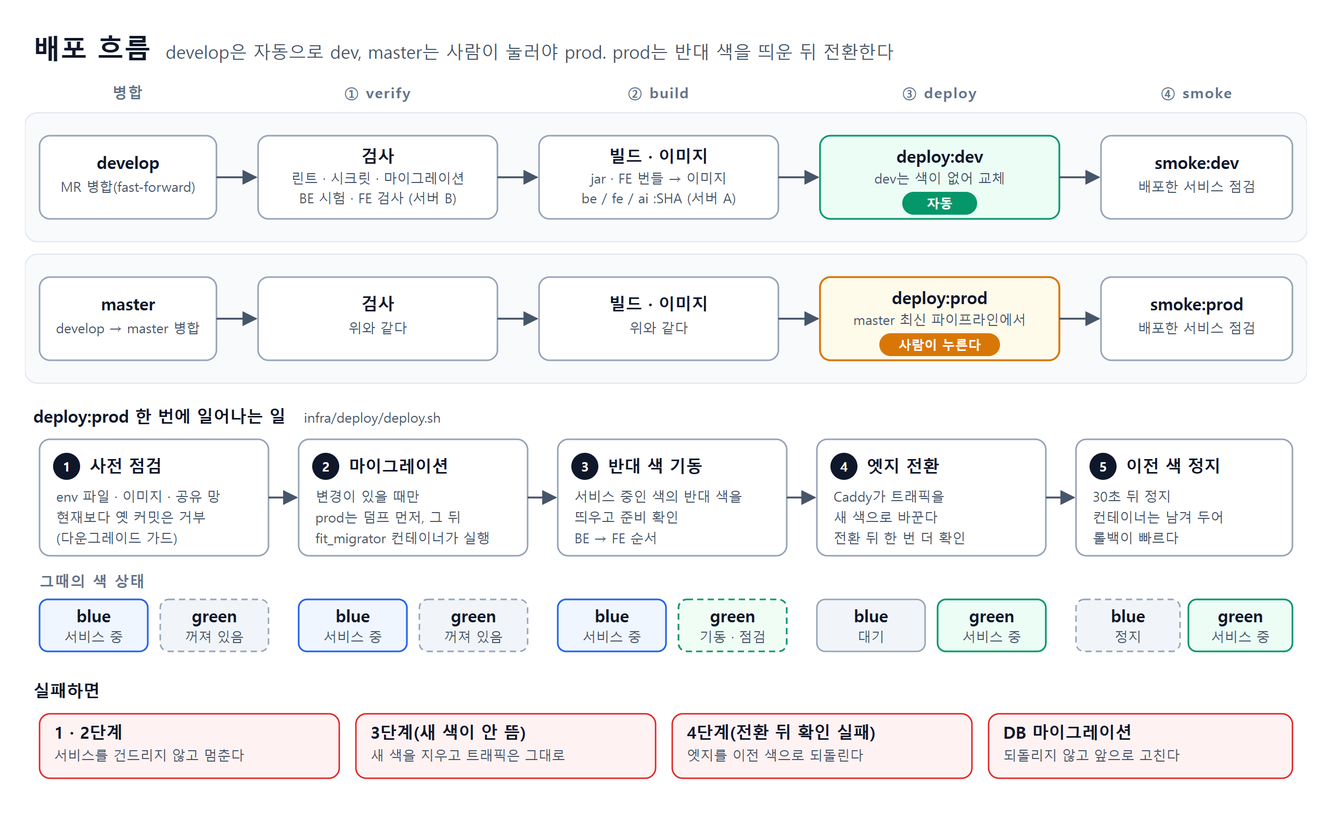
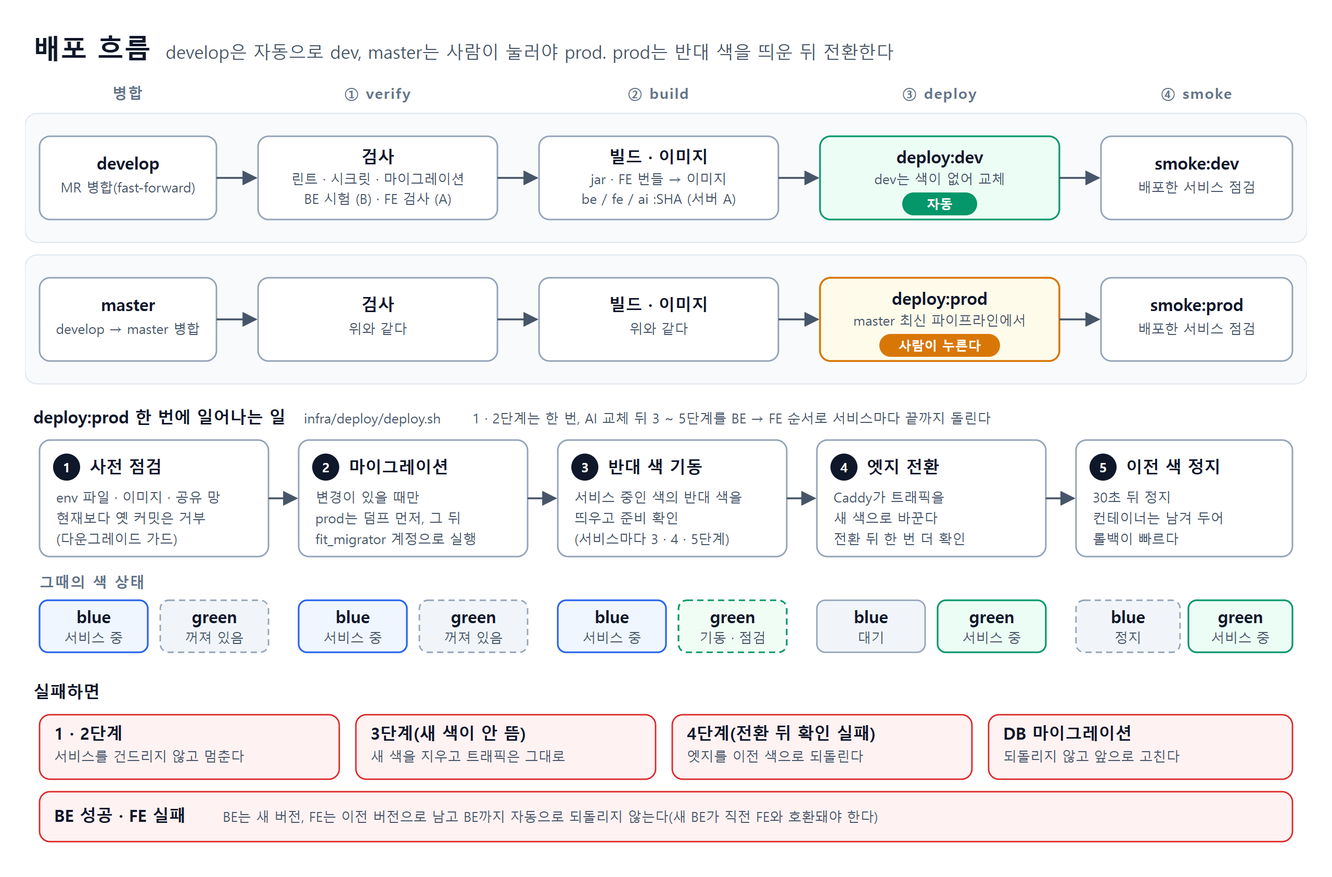
[S15P31A302-238] docs: 구성도와 ERD 그림을 V35와 현재 구성에 맞게 다시 그린다

diff --git a/exec/images/src/erd-5-meetup.html b/exec/images/src/erd-5-meetup.html
@@ -23,4 +23,4 @@ body{font-family:'Malgun Gothic','Apple SD Gothic Neo','Noto Sans KR',sans-serif
 .legend .b{font-size:12px;line-height:17px;padding:0 5px}
 svg{display:block;width:100%;height:auto}
 svg text{font-family:inherit}
-</style></head><body><div id="frame"><div class="head"><b>ERD · 모임</b><span>테이블 4개</span><div class="legend"><span><i class="b pk">PK</i> 기본키</span><span><i class="b fk">FK</i> 외래키(→ 대상 테이블)</span><span><i class="b uk">UK</i> 유일키</span></div></div><div class="cols"><div class="col"><div class="card" style="border-color:#e11d48"><div class="ch" style="background:#fff1f2;border-bottom-color:#e11d48"><b>meetups</b><span>모임</span></div><div class="r"><span class="kb"><i class="b pk">PK</i></span><span class="n">meetup_id</span><span class="ty">bigint</span></div><div class="r"><span class="kb"><i class="b uk">UK</i></span><span class="n">code</span><span class="ty">varchar</span></div><div class="r"><span class="kb"><i class="b fk">FK</i></span><span class="n">host_user_id</span><span class="ref">→ auth_users<em>회원</em></span></div><div class="r"><span class="kb"></span><span class="n">phase</span><span class="ty">text</span></div><div class="r"><span class="kb"></span><span class="n">area_kind</span><span class="ty">text</span></div><div class="r"><span class="kb"></span><span class="n">area_name</span><span class="ty">text</span></div><div class="r"><span class="kb"></span><span class="n">point_lat</span><span class="ty">double</span></div><div class="r"><span class="kb"></span><span class="n">point_lng</span><span class="ty">double</span></div><div class="r"><span class="kb"></span><span class="n">radius_m</span><span class="ty">integer</span></div><div class="r"><span class="kb"></span><span class="n">category</span><span class="ty">text</span></div><div class="r"><span class="kb"></span><span class="n">meet_date</span><span class="ty">date</span></div><div class="r"><span class="kb"></span><span class="n">meet_time</span><span class="ty">time</span></div><div class="r"><span class="kb"></span><span class="n">headcount</span><span class="ty">integer</span></div><div class="r"><span class="kb"></span><span class="n">description</span><span class="ty">varchar</span></div><div class="r"><span class="kb"></span><span class="n">parsed_conditions</span><span class="ty">jsonb</span></div><div class="r"><span class="kb"></span><span class="n">poll_state</span><span class="ty">text</span></div><div class="r"><span class="kb"></span><span class="n">poll_anonymous</span><span class="ty">boolean</span></div><div class="r"><span class="kb"></span><span class="n">poll_place_ids</span><span class="ty">bigint[]</span></div><div class="r"><span class="kb"></span><span class="n">poll_tie_votes</span><span class="ty">integer</span></div><div class="r"><span class="kb"></span><span class="n">decided_place_id</span><span class="ty">bigint</span></div><div class="r"><span class="kb"></span><span class="n">decided_how</span><span class="ty">text</span></div><div class="r"><span class="kb"></span><span class="n">decided_at</span><span class="ty">timestamptz</span></div><div class="r"><span class="kb"></span><span class="n">expires_at</span><span class="ty">timestamptz</span></div><div class="r"><span class="kb"></span><span class="n">info_updated_at</span><span class="ty">timestamptz</span></div></div><div class="card" style="border-color:#e11d48"><div class="ch" style="background:#fff1f2;border-bottom-color:#e11d48"><b>meetup_profile_sessions</b><span>참가자 세션</span></div><div class="r"><span class="kb"><i class="b pk">PK</i></span><span class="n">session_id</span><span class="ty">bigint</span></div><div class="r"><span class="kb"><i class="b fk">FK</i></span><span class="n">profile_id</span><span class="ref">→ meetup_profiles</span></div><div class="r"><span class="kb"><i class="b uk">UK</i></span><span class="n">token_hash</span><span class="ty">bytea</span></div></div></div><div class="col"><div class="card" style="border-color:#e11d48"><div class="ch" style="background:#fff1f2;border-bottom-color:#e11d48"><b>meetup_profiles</b><span>참가자 프로필</span></div><div class="r"><span class="kb"><i class="b pk">PK</i></span><span class="n">profile_id</span><span class="ty">bigint</span></div><div class="r"><span class="kb"><i class="b fk">FK</i></span><span class="n">meetup_id</span><span class="ref">→ meetups</span></div><div class="r"><span class="kb"><i class="b uk">UK</i></span><span class="n">name</span><span class="ty">varchar</span></div><div class="r"><span class="kb"><i class="b uk">UK</i></span><span class="n">color</span><span class="ty">integer</span></div><div class="r"><span class="kb"><i class="b fk">FK</i><i class="b uk">UK</i></span><span class="n">user_id</span><span class="ref">→ auth_users<em>회원</em></span></div><div class="r"><span class="kb"></span><span class="n">mood</span><span class="ty">text</span></div><div class="r"><span class="kb"></span><span class="n">like_foods</span><span class="ty">text[]</span></div><div class="r"><span class="kb"></span><span class="n">avoid_foods</span><span class="ty">text[]</span></div><div class="r"><span class="kb"></span><span class="n">no_spicy</span><span class="ty">boolean</span></div><div class="r"><span class="kb"></span><span class="n">price_cap</span><span class="ty">integer</span></div><div class="r"><span class="kb"></span><span class="n">want_menu</span><span class="ty">varchar</span></div><div class="r"><span class="kb"></span><span class="n">taste_updated_at</span><span class="ty">timestamptz</span></div><div class="r"><span class="kb"></span><span class="n">vote_place_id</span><span class="ty">bigint</span></div><div class="r"><span class="kb"><i class="b fk">FK</i></span><span class="n">vote_session_id</span><span class="ref">→ meetup_profile_sessions</span></div></div><div class="card" style="border-color:#e11d48"><div class="ch" style="background:#fff1f2;border-bottom-color:#e11d48"><b>meetup_calculations</b><span>추천 계산 기록</span></div><div class="r"><span class="kb"><i class="b pk">PK</i></span><span class="n">calc_id</span><span class="ty">bigint</span></div><div class="r"><span class="kb"><i class="b fk">FK</i></span><span class="n">meetup_id</span><span class="ref">→ meetups</span></div><div class="r"><span class="kb"></span><span class="n">state</span><span class="ty">text</span></div><div class="r"><span class="kb"></span><span class="n">started_at</span><span class="ty">timestamptz</span></div><div class="r"><span class="kb"></span><span class="n">finished_at</span><span class="ty">timestamptz</span></div><div class="r"><span class="kb"></span><span class="n">taste_count</span><span class="ty">integer</span></div><div class="r"><span class="kb"></span><span class="n">profile_ids</span><span class="ty">bigint[]</span></div><div class="r"><span class="kb"></span><span class="n">result</span><span class="ty">jsonb</span></div><div class="r"><span class="kb"></span><span class="n">applied</span><span class="ty">jsonb</span></div><div class="r"><span class="kb"></span><span class="n">empty_reason</span><span class="ty">jsonb</span></div></div></div></div></div></body></html>
+</style></head><body><div id="frame"><div class="head"><b>ERD · 모임</b><span>테이블 4개</span><div class="legend"><span><i class="b pk">PK</i> 기본키</span><span><i class="b fk">FK</i> 외래키(→ 대상 테이블)</span><span><i class="b uk">UK</i> 유일키</span></div></div><div class="cols"><div class="col"><div class="card" style="border-color:#e11d48"><div class="ch" style="background:#fff1f2;border-bottom-color:#e11d48"><b>meetups</b><span>모임</span></div><div class="r"><span class="kb"><i class="b pk">PK</i></span><span class="n">meetup_id</span><span class="ty">bigint</span></div><div class="r"><span class="kb"><i class="b uk">UK</i></span><span class="n">code</span><span class="ty">varchar</span></div><div class="r"><span class="kb"><i class="b fk">FK</i></span><span class="n">host_user_id</span><span class="ref">→ auth_users<em>회원</em></span></div><div class="r"><span class="kb"></span><span class="n">phase</span><span class="ty">text</span></div><div class="r"><span class="kb"></span><span class="n">area_kind</span><span class="ty">text</span></div><div class="r"><span class="kb"></span><span class="n">area_name</span><span class="ty">text</span></div><div class="r"><span class="kb"></span><span class="n">point_lat</span><span class="ty">double</span></div><div class="r"><span class="kb"></span><span class="n">point_lng</span><span class="ty">double</span></div><div class="r"><span class="kb"></span><span class="n">radius_m</span><span class="ty">integer</span></div><div class="r"><span class="kb"></span><span class="n">category</span><span class="ty">text</span></div><div class="r"><span class="kb"></span><span class="n">meet_date</span><span class="ty">date</span></div><div class="r"><span class="kb"></span><span class="n">meet_time</span><span class="ty">time</span></div><div class="r"><span class="kb"></span><span class="n">headcount</span><span class="ty">integer</span></div><div class="r"><span class="kb"></span><span class="n">description</span><span class="ty">varchar</span></div><div class="r"><span class="kb"></span><span class="n">parsed_conditions</span><span class="ty">jsonb</span></div><div class="r"><span class="kb"></span><span class="n">poll_state</span><span class="ty">text</span></div><div class="r"><span class="kb"></span><span class="n">poll_anonymous</span><span class="ty">boolean</span></div><div class="r"><span class="kb"></span><span class="n">poll_place_ids</span><span class="ty">bigint[]</span></div><div class="r"><span class="kb"></span><span class="n">poll_tie_votes</span><span class="ty">integer</span></div><div class="r"><span class="kb"></span><span class="n">decided_place_id</span><span class="ty">bigint</span></div><div class="r"><span class="kb"></span><span class="n">decided_how</span><span class="ty">text</span></div><div class="r"><span class="kb"></span><span class="n">decided_at</span><span class="ty">timestamptz</span></div><div class="r"><span class="kb"></span><span class="n">info_updated_at</span><span class="ty">timestamptz</span></div></div><div class="card" style="border-color:#e11d48"><div class="ch" style="background:#fff1f2;border-bottom-color:#e11d48"><b>meetup_profile_sessions</b><span>참가자 세션</span></div><div class="r"><span class="kb"><i class="b pk">PK</i></span><span class="n">session_id</span><span class="ty">bigint</span></div><div class="r"><span class="kb"><i class="b fk">FK</i></span><span class="n">profile_id</span><span class="ref">→ meetup_profiles</span></div><div class="r"><span class="kb"><i class="b uk">UK</i></span><span class="n">token_hash</span><span class="ty">bytea</span></div></div></div><div class="col"><div class="card" style="border-color:#e11d48"><div class="ch" style="background:#fff1f2;border-bottom-color:#e11d48"><b>meetup_profiles</b><span>참가자 프로필</span></div><div class="r"><span class="kb"><i class="b pk">PK</i></span><span class="n">profile_id</span><span class="ty">bigint</span></div><div class="r"><span class="kb"><i class="b fk">FK</i></span><span class="n">meetup_id</span><span class="ref">→ meetups</span></div><div class="r"><span class="kb"><i class="b uk">UK</i></span><span class="n">name</span><span class="ty">varchar</span></div><div class="r"><span class="kb"><i class="b uk">UK</i></span><span class="n">color</span><span class="ty">integer</span></div><div class="r"><span class="kb"><i class="b fk">FK</i><i class="b uk">UK</i></span><span class="n">user_id</span><span class="ref">→ auth_users<em>회원</em></span></div><div class="r"><span class="kb"></span><span class="n">mood</span><span class="ty">text</span></div><div class="r"><span class="kb"></span><span class="n">like_foods</span><span class="ty">text[]</span></div><div class="r"><span class="kb"></span><span class="n">avoid_foods</span><span class="ty">text[]</span></div><div class="r"><span class="kb"></span><span class="n">no_spicy</span><span class="ty">boolean</span></div><div class="r"><span class="kb"></span><span class="n">price_cap</span><span class="ty">integer</span></div><div class="r"><span class="kb"></span><span class="n">want_menu</span><span class="ty">varchar</span></div><div class="r"><span class="kb"></span><span class="n">taste_updated_at</span><span class="ty">timestamptz</span></div><div class="r"><span class="kb"></span><span class="n">vote_place_id</span><span class="ty">bigint</span></div><div class="r"><span class="kb"><i class="b fk">FK</i></span><span class="n">vote_session_id</span><span class="ref">→ meetup_profile_sessions</span></div></div><div class="card" style="border-color:#e11d48"><div class="ch" style="background:#fff1f2;border-bottom-color:#e11d48"><b>meetup_calculations</b><span>추천 계산 기록</span></div><div class="r"><span class="kb"><i class="b pk">PK</i></span><span class="n">calc_id</span><span class="ty">bigint</span></div><div class="r"><span class="kb"><i class="b fk">FK</i></span><span class="n">meetup_id</span><span class="ref">→ meetups</span></div><div class="r"><span class="kb"></span><span class="n">state</span><span class="ty">text</span></div><div class="r"><span class="kb"></span><span class="n">started_at</span><span class="ty">timestamptz</span></div><div class="r"><span class="kb"></span><span class="n">finished_at</span><span class="ty">timestamptz</span></div><div class="r"><span class="kb"></span><span class="n">taste_count</span><span class="ty">integer</span></div><div class="r"><span class="kb"></span><span class="n">profile_ids</span><span class="ty">bigint[]</span></div><div class="r"><span class="kb"></span><span class="n">result</span><span class="ty">jsonb</span></div><div class="r"><span class="kb"></span><span class="n">applied</span><span class="ty">jsonb</span></div><div class="r"><span class="kb"></span><span class="n">empty_reason</span><span class="ty">jsonb</span></div></div></div></div></div></body></html>

diff --git a/exec/images/src/erd-3-review.html b/exec/images/src/erd-3-review.html
@@ -23,4 +23,4 @@ body{font-family:'Malgun Gothic','Apple SD Gothic Neo','Noto Sans KR',sans-serif
 .legend .b{font-size:12px;line-height:17px;padding:0 5px}
 svg{display:block;width:100%;height:auto}
 svg text{font-family:inherit}
-</style></head><body><div id="frame"><div class="head"><b>ERD · 리뷰</b><span>테이블 6개</span><div class="legend"><span><i class="b pk">PK</i> 기본키</span><span><i class="b fk">FK</i> 외래키(→ 대상 테이블)</span><span><i class="b uk">UK</i> 유일키</span></div></div><div class="cols"><div class="col"><div class="card" style="border-color:#d97706"><div class="ch" style="background:#fffbeb;border-bottom-color:#d97706"><b>reviews</b><span>리뷰</span></div><div class="r"><span class="kb"><i class="b pk">PK</i></span><span class="n">review_id</span><span class="ty">bigint</span></div><div class="r"><span class="kb"><i class="b fk">FK</i></span><span class="n">place_id</span><span class="ref">→ places<em>장소</em></span></div><div class="r"><span class="kb"><i class="b fk">FK</i></span><span class="n">user_id</span><span class="ref">→ auth_users<em>회원</em></span></div><div class="r"><span class="kb"></span><span class="n">visit_date</span><span class="ty">date</span></div><div class="r"><span class="kb"></span><span class="n">description</span><span class="ty">varchar</span></div><div class="r"><span class="kb"></span><span class="n">revisit_intent</span><span class="ty">boolean</span></div><div class="r"><span class="kb"></span><span class="n">spent_per_person</span><span class="ty">integer</span></div><div class="r"><span class="kb"></span><span class="n">created_at</span><span class="ty">timestamptz</span></div><div class="r"><span class="kb"></span><span class="n">updated_at</span><span class="ty">timestamptz</span></div><div class="r"><span class="kb"></span><span class="n">deleted_at</span><span class="ty">timestamptz</span></div></div><div class="card" style="border-color:#d97706"><div class="ch" style="background:#fffbeb;border-bottom-color:#d97706"><b>review_reason_tags</b><span>리뷰에 붙은 태그</span></div><div class="r"><span class="kb"><i class="b pk">PK</i><i class="b fk">FK</i></span><span class="n">review_id</span><span class="ref">→ reviews</span></div><div class="r"><span class="kb"><i class="b pk">PK</i><i class="b fk">FK</i></span><span class="n">code</span><span class="ref">→ reason_tags</span></div></div></div><div class="col"><div class="card" style="border-color:#d97706"><div class="ch" style="background:#fffbeb;border-bottom-color:#d97706"><b>review_reports</b><span>리뷰 신고</span></div><div class="r"><span class="kb"><i class="b pk">PK</i></span><span class="n">review_report_id</span><span class="ty">bigint</span></div><div class="r"><span class="kb"><i class="b fk">FK</i></span><span class="n">review_id</span><span class="ref">→ reviews</span></div><div class="r"><span class="kb"><i class="b fk">FK</i><i class="b uk">UK</i></span><span class="n">reporter_id</span><span class="ref">→ auth_users<em>회원</em></span></div><div class="r"><span class="kb"></span><span class="n">reason</span><span class="ty">text</span></div><div class="r"><span class="kb"></span><span class="n">detail</span><span class="ty">varchar</span></div><div class="r"><span class="kb"></span><span class="n">created_at</span><span class="ty">timestamptz</span></div></div><div class="card" style="border-color:#d97706"><div class="ch" style="background:#fffbeb;border-bottom-color:#d97706"><b>review_photos</b><span>리뷰 사진</span></div><div class="r"><span class="kb"><i class="b pk">PK</i><i class="b fk">FK</i></span><span class="n">review_id</span><span class="ref">→ reviews</span></div><div class="r"><span class="kb"><i class="b pk">PK</i></span><span class="n">sort_order</span><span class="ty">integer</span></div><div class="r"><span class="kb"><i class="b uk">UK</i></span><span class="n">photo_id</span><span class="ty">uuid</span></div></div></div><div class="col"><div class="card" style="border-color:#d97706"><div class="ch" style="background:#fffbeb;border-bottom-color:#d97706"><b>reason_tags</b><span>이유 태그 코드</span></div><div class="r"><span class="kb"><i class="b pk">PK</i></span><span class="n">code</span><span class="ty">text</span></div><div class="r"><span class="kb"><i class="b fk">FK</i></span><span class="n">feature_code</span><span class="ref">→ feature_codes<em>장소</em></span></div><div class="r"><span class="kb"></span><span class="n">sentiment</span><span class="ty">text</span></div><div class="r"><span class="kb"></span><span class="n">label</span><span class="ty">varchar</span></div><div class="r"><span class="kb"></span><span class="n">display_group</span><span class="ty">varchar</span></div><div class="r"><span class="kb"></span><span class="n">sort_order</span><span class="ty">integer</span></div></div><div class="card" style="border-color:#d97706"><div class="ch" style="background:#fffbeb;border-bottom-color:#d97706"><b>reason_tag_categories</b><span>업종별 태그</span></div><div class="r"><span class="kb"><i class="b pk">PK</i></span><span class="n">category</span><span class="ty">text</span></div><div class="r"><span class="kb"><i class="b pk">PK</i><i class="b fk">FK</i></span><span class="n">code</span><span class="ref">→ reason_tags</span></div><div class="r"><span class="kb"></span><span class="n">label</span><span class="ty">varchar</span></div></div></div></div></div></body></html>
+</style></head><body><div id="frame"><div class="head"><b>ERD · 리뷰</b><span>테이블 7개</span><div class="legend"><span><i class="b pk">PK</i> 기본키</span><span><i class="b fk">FK</i> 외래키(→ 대상 테이블)</span><span><i class="b uk">UK</i> 유일키</span></div></div><div class="cols"><div class="col"><div class="card" style="border-color:#d97706"><div class="ch" style="background:#fffbeb;border-bottom-color:#d97706"><b>reviews</b><span>리뷰</span></div><div class="r"><span class="kb"><i class="b pk">PK</i></span><span class="n">review_id</span><span class="ty">bigint</span></div><div class="r"><span class="kb"><i class="b fk">FK</i></span><span class="n">place_id</span><span class="ref">→ places<em>장소</em></span></div><div class="r"><span class="kb"><i class="b fk">FK</i></span><span class="n">user_id</span><span class="ref">→ auth_users<em>회원</em></span></div><div class="r"><span class="kb"></span><span class="n">visit_date</span><span class="ty">date</span></div><div class="r"><span class="kb"></span><span class="n">description</span><span class="ty">varchar</span></div><div class="r"><span class="kb"></span><span class="n">revisit_intent</span><span class="ty">boolean</span></div><div class="r"><span class="kb"></span><span class="n">spent_per_person</span><span class="ty">integer</span></div><div class="r"><span class="kb"></span><span class="n">created_at</span><span class="ty">timestamptz</span></div><div class="r"><span class="kb"></span><span class="n">updated_at</span><span class="ty">timestamptz</span></div><div class="r"><span class="kb"></span><span class="n">deleted_at</span><span class="ty">timestamptz</span></div></div><div class="card" style="border-color:#d97706"><div class="ch" style="background:#fffbeb;border-bottom-color:#d97706"><b>review_reason_tags</b><span>리뷰에 붙은 태그</span></div><div class="r"><span class="kb"><i class="b pk">PK</i><i class="b fk">FK</i></span><span class="n">review_id</span><span class="ref">→ reviews</span></div><div class="r"><span class="kb"><i class="b pk">PK</i><i class="b fk">FK</i></span><span class="n">code</span><span class="ref">→ reason_tags</span></div></div></div><div class="col"><div class="card" style="border-color:#d97706"><div class="ch" style="background:#fffbeb;border-bottom-color:#d97706"><b>review_reports</b><span>리뷰 신고</span></div><div class="r"><span class="kb"><i class="b pk">PK</i></span><span class="n">review_report_id</span><span class="ty">bigint</span></div><div class="r"><span class="kb"><i class="b fk">FK</i></span><span class="n">review_id</span><span class="ref">→ reviews</span></div><div class="r"><span class="kb"><i class="b fk">FK</i><i class="b uk">UK</i></span><span class="n">reporter_id</span><span class="ref">→ auth_users<em>회원</em></span></div><div class="r"><span class="kb"></span><span class="n">reason</span><span class="ty">text</span></div><div class="r"><span class="kb"></span><span class="n">detail</span><span class="ty">varchar</span></div><div class="r"><span class="kb"></span><span class="n">created_at</span><span class="ty">timestamptz</span></div></div><div class="card" style="border-color:#d97706"><div class="ch" style="background:#fffbeb;border-bottom-color:#d97706"><b>review_photos</b><span>리뷰 사진</span></div><div class="r"><span class="kb"><i class="b pk">PK</i><i class="b fk">FK</i></span><span class="n">review_id</span><span class="ref">→ reviews</span></div><div class="r"><span class="kb"><i class="b pk">PK</i></span><span class="n">sort_order</span><span class="ty">integer</span></div><div class="r"><span class="kb"><i class="b uk">UK</i></span><span class="n">photo_id</span><span class="ty">uuid</span></div></div><div class="card" style="border-color:#d97706"><div class="ch" style="background:#fffbeb;border-bottom-color:#d97706"><b>review_extractions</b><span>리뷰 본문 추출 결과</span></div><div class="r"><span class="kb"><i class="b pk">PK</i><i class="b fk">FK</i></span><span class="n">review_id</span><span class="ref">→ reviews</span></div><div class="r"><span class="kb"></span><span class="n">items</span><span class="ty">jsonb</span></div><div class="r"><span class="kb"></span><span class="n">model</span><span class="ty">text</span></div><div class="r"><span class="kb"></span><span class="n">prompt_version</span><span class="ty">integer</span></div><div class="r"><span class="kb"></span><span class="n">extracted_at</span><span class="ty">timestamptz</span></div></div></div><div class="col"><div class="card" style="border-color:#d97706"><div class="ch" style="background:#fffbeb;border-bottom-color:#d97706"><b>reason_tags</b><span>이유 태그 코드</span></div><div class="r"><span class="kb"><i class="b pk">PK</i></span><span class="n">code</span><span class="ty">text</span></div><div class="r"><span class="kb"><i class="b fk">FK</i></span><span class="n">feature_code</span><span class="ref">→ feature_codes<em>장소</em></span></div><div class="r"><span class="kb"></span><span class="n">sentiment</span><span class="ty">text</span></div><div class="r"><span class="kb"></span><span class="n">label</span><span class="ty">varchar</span></div><div class="r"><span class="kb"></span><span class="n">display_group</span><span class="ty">varchar</span></div><div class="r"><span class="kb"></span><span class="n">sort_order</span><span class="ty">integer</span></div></div><div class="card" style="border-color:#d97706"><div class="ch" style="background:#fffbeb;border-bottom-color:#d97706"><b>reason_tag_categories</b><span>업종별 태그</span></div><div class="r"><span class="kb"><i class="b pk">PK</i></span><span class="n">category</span><span class="ty">text</span></div><div class="r"><span class="kb"><i class="b pk">PK</i><i class="b fk">FK</i></span><span class="n">code</span><span class="ref">→ reason_tags</span></div><div class="r"><span class="kb"></span><span class="n">label</span><span class="ty">varchar</span></div></div></div></div></div></body></html>

diff --git a/exec/images/src/erd-0-overview.html b/exec/images/src/erd-0-overview.html
@@ -23,4 +23,4 @@ body{font-family:'Malgun Gothic','Apple SD Gothic Neo','Noto Sans KR',sans-serif
 .legend .b{font-size:12px;line-height:17px;padding:0 5px}
 svg{display:block;width:100%;height:auto}
 svg text{font-family:inherit}
-</style></head><body><div id="frame"><div class="head"><b>ERD 한눈에</b><span>테이블 32개 · FK 31개. 회원 · 인증과 장소가 중심이고 나머지가 두 영역을 참조한다</span></div><svg viewBox="0 0 1232 660" role="img" aria-label="회원 인증 영역과 장소 영역이 중심이고 리뷰, 북마크 검색, 모임 영역이 두 영역을 참조한다."><defs><marker id="a" viewBox="0 0 10 10" refX="9" refY="5" markerWidth="9" markerHeight="9" orient="auto"><path d="M0,0 L10,5 L0,10 z" fill="#475569"/></marker><marker id="g" viewBox="0 0 10 10" refX="9" refY="5" markerWidth="9" markerHeight="9" orient="auto"><path d="M0,0 L10,5 L0,10 z" fill="#94a3b8"/></marker></defs><rect x="40" y="250" width="300" height="130" rx="12" fill="#eff6ff" stroke="#2563eb" stroke-width="2.4"/><text x="58" y="290" font-size="21" font-weight="800" fill="#0f172a">회원 · 인증</text><text x="58" y="316" font-size="15" fill="#475569">테이블 6개</text><text x="58" y="348" font-size="13.5" fill="#64748b" font-family="Consolas,monospace">auth_users · user_preferences</text><rect x="892" y="250" width="300" height="130" rx="12" fill="#ecfdf5" stroke="#059669" stroke-width="2.4"/><text x="910" y="290" font-size="21" font-weight="800" fill="#0f172a">장소</text><text x="910" y="316" font-size="15" fill="#475569">테이블 11개</text><text x="910" y="348" font-size="13.5" fill="#64748b" font-family="Consolas,monospace">places · place_* 9개 · feature_codes</text><rect x="466" y="40" width="300" height="130" rx="12" fill="#fffbeb" stroke="#d97706" stroke-width="2.4"/><text x="484" y="80" font-size="21" font-weight="800" fill="#0f172a">리뷰</text><text x="484" y="106" font-size="15" fill="#475569">테이블 6개</text><text x="484" y="138" font-size="13.5" fill="#64748b" font-family="Consolas,monospace">reviews · review_reason_tags</text><rect x="466" y="470" width="300" height="130" rx="12" fill="#f5f3ff" stroke="#7c3aed" stroke-width="2.4"/><text x="484" y="510" font-size="21" font-weight="800" fill="#0f172a">북마크 · 검색 · 기타</text><text x="484" y="536" font-size="15" fill="#475569">테이블 5개</text><text x="484" y="568" font-size="13.5" fill="#64748b" font-family="Consolas,monospace">bookmarks · search_threads</text><rect x="40" y="470" width="300" height="130" rx="12" fill="#fff1f2" stroke="#e11d48" stroke-width="2.4"/><text x="58" y="510" font-size="21" font-weight="800" fill="#0f172a">모임</text><text x="58" y="536" font-size="15" fill="#475569">테이블 4개</text><text x="58" y="568" font-size="13.5" fill="#64748b" font-family="Consolas,monospace">meetups · meetup_profiles</text><path d="M466,150 L340,275" fill="none" stroke="#475569" stroke-width="2.4" marker-end="url(#a)"/><text x="403" y="217" text-anchor="middle" font-size="14" font-weight="700" fill="#1e293b" paint-order="stroke" stroke="#fff" stroke-width="6" stroke-linejoin="round">FK 2개</text><path d="M766,150 L892,275" fill="none" stroke="#475569" stroke-width="2.4" marker-end="url(#a)"/><text x="829" y="217" text-anchor="middle" font-size="14" font-weight="700" fill="#1e293b" paint-order="stroke" stroke="#fff" stroke-width="6" stroke-linejoin="round">FK 2개</text><path d="M466,520 L340,360" fill="none" stroke="#475569" stroke-width="2.4" marker-end="url(#a)"/><text x="403" y="445" text-anchor="middle" font-size="14" font-weight="700" fill="#1e293b" paint-order="stroke" stroke="#fff" stroke-width="6" stroke-linejoin="round">FK 2개</text><path d="M766,520 L892,360" fill="none" stroke="#475569" stroke-width="2.4" marker-end="url(#a)"/><text x="829" y="445" text-anchor="middle" font-size="14" font-weight="700" fill="#1e293b" paint-order="stroke" stroke="#fff" stroke-width="6" stroke-linejoin="round">FK 1개</text><path d="M190,470 L190,380" fill="none" stroke="#475569" stroke-width="2.4" marker-end="url(#a)"/><text x="190" y="430" text-anchor="middle" font-size="14" font-weight="700" fill="#1e293b" paint-order="stroke" stroke="#fff" stroke-width="6" stroke-linejoin="round">FK 2개</text><path d="M340,600 V632 H1042 V382" fill="none" stroke="#94a3b8" stroke-width="2.4" stroke-dasharray="8 6" marker-end="url(#g)"/><text x="700" y="650" text-anchor="middle" font-size="14" font-weight="700" fill="#475569" paint-order="stroke" stroke="#fff" stroke-width="6">모임 → 장소: FK 없이 장소 id만 저장</text></svg><div style="margin:8px 0 0 8px;font-size:14px;color:#475569">화살표는 FK가 가리키는 방향이다. 영역 안의 FK 22개는 영역별 그림에 나온다. 점선은 FK 제약이 없는 연결이다.</div></div></body></html>
+</style></head><body><div id="frame"><div class="head"><b>ERD 한눈에</b><span>테이블 33개 · FK 32개(V35 기준). 회원 · 인증과 장소가 중심이고 나머지가 두 영역을 참조한다</span></div><svg viewBox="0 0 1232 660" role="img" aria-label="회원 인증 영역과 장소 영역이 중심이고 리뷰, 북마크 검색, 모임 영역이 두 영역을 참조한다."><defs><marker id="a" viewBox="0 0 10 10" refX="9" refY="5" markerWidth="9" markerHeight="9" orient="auto"><path d="M0,0 L10,5 L0,10 z" fill="#475569"/></marker><marker id="g" viewBox="0 0 10 10" refX="9" refY="5" markerWidth="9" markerHeight="9" orient="auto"><path d="M0,0 L10,5 L0,10 z" fill="#94a3b8"/></marker></defs><rect x="40" y="250" width="300" height="130" rx="12" fill="#eff6ff" stroke="#2563eb" stroke-width="2.4"/><text x="58" y="290" font-size="21" font-weight="800" fill="#0f172a">회원 · 인증</text><text x="58" y="316" font-size="15" fill="#475569">테이블 6개</text><text x="58" y="348" font-size="13.5" fill="#64748b" font-family="Consolas,monospace">auth_users · user_preferences</text><rect x="892" y="250" width="300" height="130" rx="12" fill="#ecfdf5" stroke="#059669" stroke-width="2.4"/><text x="910" y="290" font-size="21" font-weight="800" fill="#0f172a">장소</text><text x="910" y="316" font-size="15" fill="#475569">테이블 11개</text><text x="910" y="348" font-size="13.5" fill="#64748b" font-family="Consolas,monospace">places · place_* 9개 · feature_codes</text><rect x="466" y="40" width="300" height="130" rx="12" fill="#fffbeb" stroke="#d97706" stroke-width="2.4"/><text x="484" y="80" font-size="21" font-weight="800" fill="#0f172a">리뷰</text><text x="484" y="106" font-size="15" fill="#475569">테이블 7개</text><text x="484" y="138" font-size="13.5" fill="#64748b" font-family="Consolas,monospace">reviews · review_reason_tags</text><rect x="466" y="470" width="300" height="130" rx="12" fill="#f5f3ff" stroke="#7c3aed" stroke-width="2.4"/><text x="484" y="510" font-size="21" font-weight="800" fill="#0f172a">북마크 · 검색 · 기타</text><text x="484" y="536" font-size="15" fill="#475569">테이블 5개</text><text x="484" y="568" font-size="13.5" fill="#64748b" font-family="Consolas,monospace">bookmarks · search_threads</text><rect x="40" y="470" width="300" height="130" rx="12" fill="#fff1f2" stroke="#e11d48" stroke-width="2.4"/><text x="58" y="510" font-size="21" font-weight="800" fill="#0f172a">모임</text><text x="58" y="536" font-size="15" fill="#475569">테이블 4개</text><text x="58" y="568" font-size="13.5" fill="#64748b" font-family="Consolas,monospace">meetups · meetup_profiles</text><path d="M466,150 L340,275" fill="none" stroke="#475569" stroke-width="2.4" marker-end="url(#a)"/><text x="403" y="217" text-anchor="middle" font-size="14" font-weight="700" fill="#1e293b" paint-order="stroke" stroke="#fff" stroke-width="6" stroke-linejoin="round">FK 2개</text><path d="M766,150 L892,275" fill="none" stroke="#475569" stroke-width="2.4" marker-end="url(#a)"/><text x="829" y="217" text-anchor="middle" font-size="14" font-weight="700" fill="#1e293b" paint-order="stroke" stroke="#fff" stroke-width="6" stroke-linejoin="round">FK 2개</text><path d="M466,520 L340,360" fill="none" stroke="#475569" stroke-width="2.4" marker-end="url(#a)"/><text x="403" y="445" text-anchor="middle" font-size="14" font-weight="700" fill="#1e293b" paint-order="stroke" stroke="#fff" stroke-width="6" stroke-linejoin="round">FK 2개</text><path d="M766,520 L892,360" fill="none" stroke="#475569" stroke-width="2.4" marker-end="url(#a)"/><text x="829" y="445" text-anchor="middle" font-size="14" font-weight="700" fill="#1e293b" paint-order="stroke" stroke="#fff" stroke-width="6" stroke-linejoin="round">FK 1개</text><path d="M190,470 L190,380" fill="none" stroke="#475569" stroke-width="2.4" marker-end="url(#a)"/><text x="190" y="430" text-anchor="middle" font-size="14" font-weight="700" fill="#1e293b" paint-order="stroke" stroke="#fff" stroke-width="6" stroke-linejoin="round">FK 2개</text><path d="M340,600 V632 H1042 V382" fill="none" stroke="#94a3b8" stroke-width="2.4" stroke-dasharray="8 6" marker-end="url(#g)"/><text x="700" y="650" text-anchor="middle" font-size="14" font-weight="700" fill="#475569" paint-order="stroke" stroke="#fff" stroke-width="6">모임 → 장소: FK 없이 장소 id만 저장</text></svg><div style="margin:8px 0 0 8px;font-size:14px;color:#475569">화살표는 FK가 가리키는 방향이다. 영역 안의 FK 23개는 영역별 그림에 나온다. 점선은 FK 제약이 없는 연결이다.</div></div></body></html>

diff --git a/exec/images/src/02-deploy.html b/exec/images/src/02-deploy.html
@@ -33,7 +33,7 @@
 <body>
 <div id="frame">
   <div class="head"><b>배포 흐름</b><span>develop은 자동으로 dev, master는 사람이 눌러야 prod. prod는 반대 색을 띄운 뒤 전환한다</span></div>
-  <svg viewBox="0 0 1232 700" role="img" aria-label="develop 병합은 검사, 빌드, dev 배포, 점검 순서로 자동으로 흐른다. master 병합은 같은 단계를 거치되 prod 배포는 사람이 누른다. prod 배포는 사전 점검, 마이그레이션, 반대 색 기동, 엣지 전환, 이전 색 정지 순서다.">
+  <svg viewBox="0 0 1232 750" role="img" aria-label="develop 병합은 검사, 빌드, dev 배포, 점검 순서로 자동으로 흐른다. master 병합은 같은 단계를 거치되 prod 배포는 사람이 누른다. prod 배포는 사전 점검, 마이그레이션을 한 번 하고, AI를 교체한 뒤 서비스마다(BE 먼저, 그다음 FE) 반대 색 기동, 엣지 전환, 이전 색 정지를 끝까지 돌린다. BE만 성공하고 FE가 실패하면 BE는 새 버전, FE는 이전 버전으로 남는다.">
     <defs>
       <marker id="a" viewBox="0 0 10 10" refX="9" refY="5" markerWidth="8" markerHeight="8" orient="auto"><path d="M0,0 L10,5 L0,10 z" fill="#475569"/></marker>
     </defs>
@@ -54,7 +54,7 @@
     <rect class="box" x="224" y="62" width="230" height="80" rx="10"/>
     <text class="t" x="339" y="88" text-anchor="middle">검사</text>
     <text class="s" x="339" y="108" text-anchor="middle">린트 · 시크릿 · 마이그레이션</text>
-    <text class="s" x="339" y="127" text-anchor="middle">BE 시험 · FE 검사 (서버 B)</text>
+    <text class="s" x="339" y="127" text-anchor="middle">BE 시험 (B) · FE 검사 (A)</text>
 
     <rect class="box" x="494" y="62" width="230" height="80" rx="10"/>
     <text class="t" x="609" y="88" text-anchor="middle">빌드 · 이미지</text>
@@ -108,6 +108,7 @@
     <!-- prod 배포 안에서 -->
     <text class="t" x="8" y="338">deploy:prod 한 번에 일어나는 일</text>
     <text class="s" x="268" y="338">infra/deploy/deploy.sh</text>
+    <text class="s" x="430" y="338">1 · 2단계는 한 번, AI 교체 뒤 3 ~ 5단계를 BE → FE 순서로 서비스마다 끝까지 돌린다</text>
 
     <!-- 단계 카드 -->
     <g>
@@ -124,7 +125,7 @@
       <text class="t" x="311" y="386">마이그레이션</text>
       <text class="s" x="279" y="414">변경이 있을 때만</text>
       <text class="s" x="279" y="434">prod는 덤프 먼저, 그 뒤</text>
-      <text class="s" x="279" y="454">fit_migrator 컨테이너가 실행</text>
+      <text class="s" x="279" y="454">fit_migrator 계정으로 실행</text>
     </g>
     <g>
       <rect class="box" x="512" y="354" width="220" height="112" rx="10"/>
@@ -132,7 +133,7 @@
       <text class="t" x="560" y="386">반대 색 기동</text>
       <text class="s" x="528" y="414">서비스 중인 색의 반대 색을</text>
       <text class="s" x="528" y="434">띄우고 준비 확인</text>
-      <text class="s" x="528" y="454">BE → FE 순서</text>
+      <text class="s" x="528" y="454">(서비스마다 3 · 4 · 5단계)</text>
     </g>
     <g>
       <rect class="box" x="761" y="354" width="220" height="112" rx="10"/>
@@ -202,6 +203,9 @@
     <rect class="red" x="926" y="618" width="292" height="62" rx="10"/>
     <text class="t" x="940" y="642">DB 마이그레이션</text>
     <text class="s" x="940" y="663">되돌리지 않고 앞으로 고친다</text>
+    <rect class="red" x="14" y="692" width="1204" height="48" rx="10"/>
+    <text class="t" x="28" y="721">BE 성공 · FE 실패</text>
+    <text class="s" x="190" y="721">BE는 새 버전, FE는 이전 버전으로 남고 BE까지 자동으로 되돌리지 않는다(새 BE가 직전 FE와 호환돼야 한다)</text>
   </svg>
 </div>
 </body>

diff --git a/exec/images/src/01-architecture.html b/exec/images/src/01-architecture.html
@@ -30,8 +30,8 @@
 </head>
 <body>
 <div id="frame">
-  <div class="head"><b>서비스 구성</b><span>공개 포트는 Caddy(443) 하나이고, 나머지는 서버 안 망으로만 닿는다</span></div>
-  <svg viewBox="0 0 1232 770" role="img" aria-label="브라우저는 서버 A의 Caddy 443 포트로만 들어오고, Caddy가 FE와 BE와 사진 저장소로 나눠 보낸다. BE는 DB와 Redis와 사진 저장소를 부르고 AI는 DB를 읽기 전용으로 읽는다. OpenSearch는 구축만 되어 있고 앱은 쓰지 않는다. 서버 B는 빌드, 감시, 백업을 맡는다.">
+  <div class="head"><b>서비스 구성</b><span>공개 포트는 Caddy(80 · 443) 하나이고, 나머지는 서버 안 망으로만 닿는다</span></div>
+  <svg viewBox="0 0 1232 770" role="img" aria-label="브라우저는 서버 A의 Caddy(80과 443 포트)로만 들어오고, Caddy가 FE와 BE와 사진 저장소로 나눠 보낸다. BE는 DB와 Redis와 사진 저장소를 부르고 AI는 DB를 읽기 전용으로 읽는다. OpenSearch는 구축만 되어 있고 앱은 쓰지 않는다. 서버 A에는 배포 러너와 FE 검사 러너가 있고, 서버 B는 빌드와 시험, 감시, 백업을 맡는다.">
     <defs>
       <marker id="a" viewBox="0 0 10 10" refX="9" refY="5" markerWidth="8" markerHeight="8" orient="auto"><path d="M0,0 L10,5 L0,10 z" fill="#475569"/></marker>
       <marker id="r" viewBox="0 0 10 10" refX="9" refY="5" markerWidth="7" markerHeight="7" orient="auto"><path d="M0,0 L10,5 L0,10 z" fill="#dc2626"/></marker>
@@ -123,12 +123,15 @@
     <text class="lab" x="820" y="352">읽기 전용</text>
 
     <!-- 운영 -->
-    <rect class="slate" x="210" y="485" width="300" height="60" rx="10"/>
-    <text class="t" x="360" y="511" text-anchor="middle">관측</text>
-    <text class="s" x="360" y="531" text-anchor="middle">Prometheus · Grafana · Dozzle</text>
-    <rect class="slate" x="540" y="485" width="300" height="60" rx="10"/>
-    <text class="t" x="690" y="511" text-anchor="middle">GitLab Runner(deploy)</text>
-    <text class="s" x="690" y="531" text-anchor="middle">이미지 조립 · 배포</text>
+    <rect class="slate" x="210" y="485" width="250" height="60" rx="10"/>
+    <text class="t" x="335" y="511" text-anchor="middle">관측</text>
+    <text class="s" x="335" y="531" text-anchor="middle">Prometheus · Grafana · Dozzle</text>
+    <rect class="slate" x="480" y="485" width="250" height="60" rx="10"/>
+    <text class="t" x="605" y="511" text-anchor="middle">GitLab Runner(deploy)</text>
+    <text class="s" x="605" y="531" text-anchor="middle">이미지 조립 · 배포</text>
+    <rect class="slate" x="750" y="485" width="250" height="60" rx="10"/>
+    <text class="t" x="875" y="511" text-anchor="middle">GitLab Runner(verify-fe)</text>
+    <text class="s" x="875" y="531" text-anchor="middle">FE 검사(MR 코드, 격리)</text>
 
     <!-- 외부 서비스 -->
     <text class="s" x="1062" y="196">외부 서비스</text>
@@ -149,7 +152,7 @@
     <text class="s" x="246" y="653">EC2 c6g.large · Arm · 2 vCPU · 4GB</text>
     <rect class="slate" x="190" y="672" width="240" height="62" rx="10"/>
     <text class="t" x="310" y="699" text-anchor="middle">GitLab Runner(verify)</text>
-    <text class="s" x="310" y="719" text-anchor="middle">빌드 · 시험</text>
+    <text class="s" x="310" y="719" text-anchor="middle">lint · BE 시험 · 빌드</text>
     <rect class="slate" x="450" y="672" width="280" height="62" rx="10"/>
     <text class="t" x="590" y="699" text-anchor="middle">외부 감시</text>
     <text class="s" x="590" y="719" text-anchor="middle">Prometheus · Alertmanager</text>

diff --git a/exec/images/src/03-db-accounts.html b/exec/images/src/03-db-accounts.html
@@ -68,7 +68,7 @@
     <rect class="box" x="14" y="120" width="250" height="64" rx="10"/>
     <text class="t" x="30" y="148">AI API (prod)</text><text class="s" x="30" y="169">ai-prod</text>
     <rect class="box" x="396" y="120" width="340" height="64" rx="10"/>
-    <text class="m" x="412" y="148">fit_prod_ai</text><text class="s" x="412" y="169">읽기 전용 · 뷰 1개 + 테이블 1개 · 연결 6개</text>
+    <text class="m" x="412" y="148">fit_prod_ai</text><text class="s" x="412" y="169">읽기 전용 · 뷰 2개 + 테이블 1개 · 연결 6개</text>
     <path class="arr" d="M264,152 H394" marker-end="url(#a)"/>
     <path class="arr" d="M736,152 H878" marker-end="url(#a)"/>
     <text class="lab" x="807" y="144" text-anchor="middle">읽기만</text>
@@ -96,7 +96,7 @@
     <rect class="box" x="14" y="348" width="250" height="64" rx="10"/>
     <text class="t" x="30" y="376">AI API (dev)</text><text class="s" x="30" y="397">ai-dev</text>
     <rect class="box" x="396" y="348" width="340" height="64" rx="10"/>
-    <text class="m" x="412" y="376">fit_dev_ai</text><text class="s" x="412" y="397">읽기 전용 · 뷰 1개 + 테이블 1개 · 연결 6개</text>
+    <text class="m" x="412" y="376">fit_dev_ai</text><text class="s" x="412" y="397">읽기 전용 · 뷰 2개 + 테이블 1개 · 연결 6개</text>
     <path class="arr" d="M264,380 H394" marker-end="url(#a)"/>
     <path class="arr" d="M736,380 H878" marker-end="url(#a)"/>
     <text class="lab" x="807" y="372" text-anchor="middle">읽기만</text>
